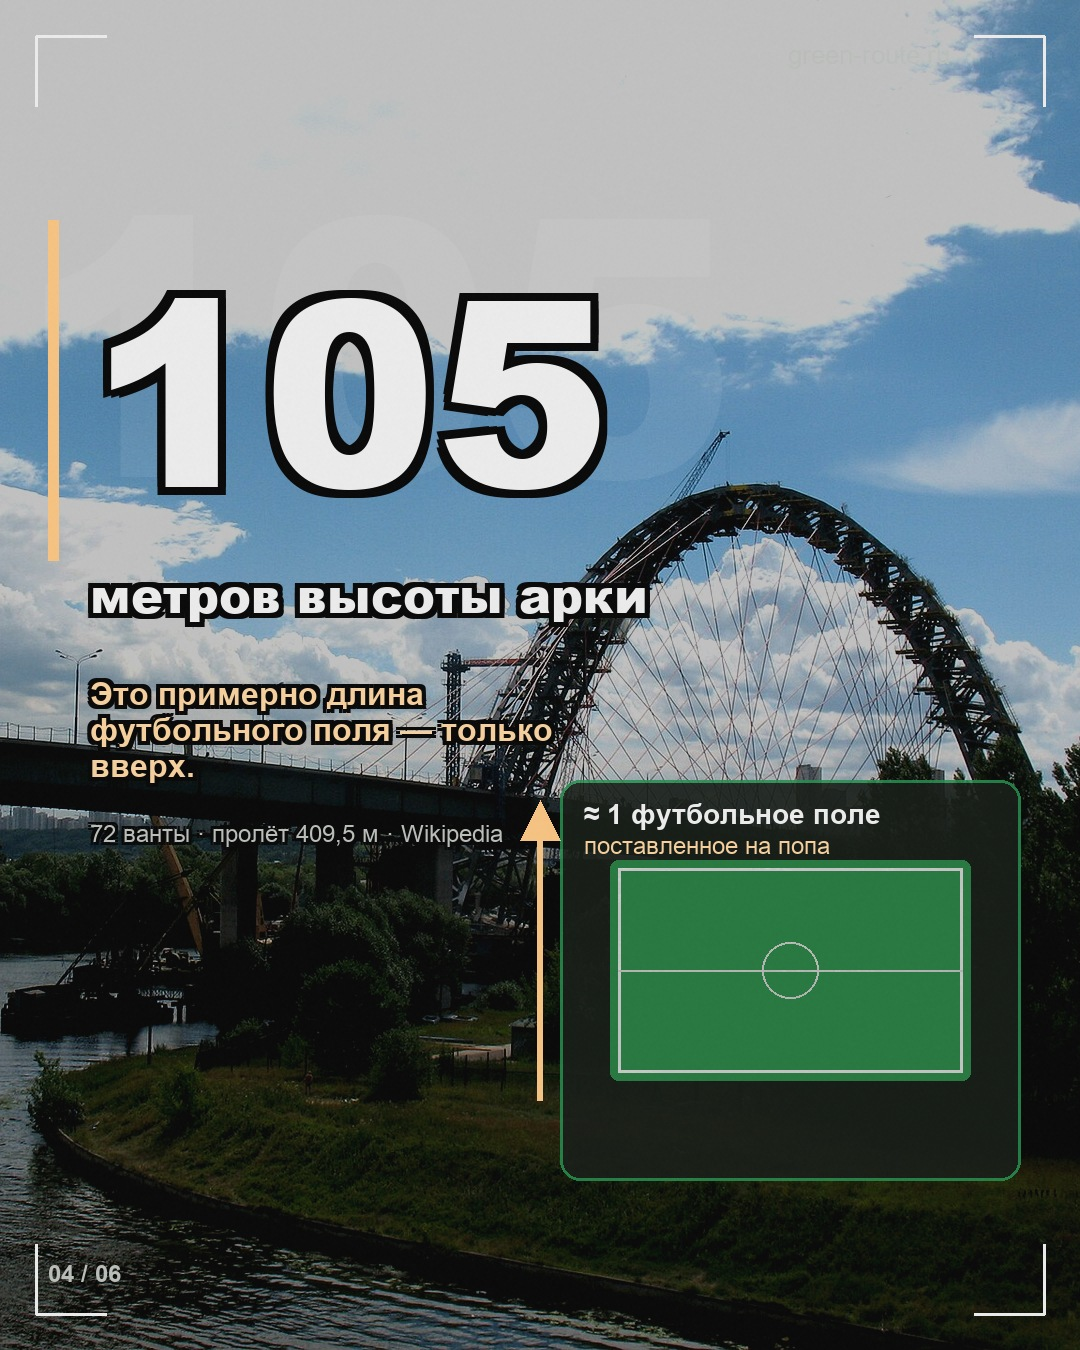
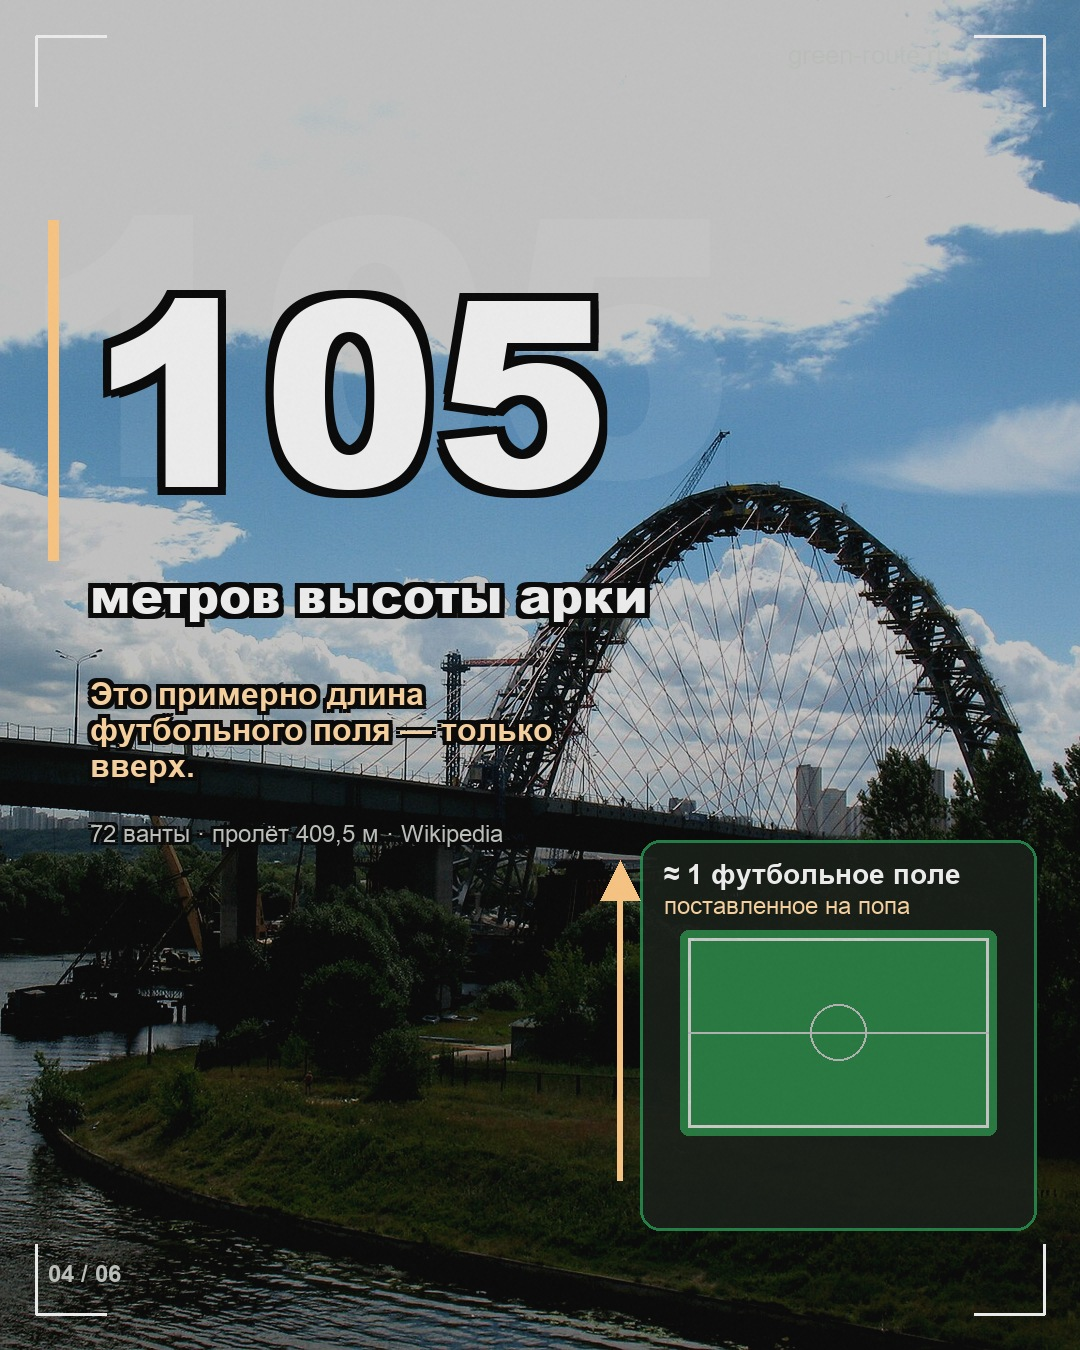
fix(instagram): shift football compare card off left copy column (#10)

Changed region(s): [[0.4889, 0.56, 0.9778, 0.8711], [0.5806, 0.8711, 0.6111, 0.9022]]

diff --git a/_previews/instagram-carousel/render_variant_a.py b/_previews/instagram-carousel/render_variant_a.py
@@ -197,10 +197,10 @@ def draw_football_compare(base: Image.Image) -> Image.Image:
     layer = Image.new("RGBA", (W, H), (0, 0, 0, 0))
     d = ImageDraw.Draw(layer)
     # field card bottom-right
-    fx0, fy0, fx1, fy1 = 560, 780, 1020, 1180
+    fx0, fy0, fx1, fy1 = 640, 840, 1036, 1230
     d.rounded_rectangle([fx0, fy0, fx1, fy1], radius=20, fill=(16, 22, 16, 230), outline=(*GREEN, 220), width=3)
     # mini pitch
-    px0, py0, px1, py1 = 610, 860, 970, 1080
+    px0, py0, px1, py1 = 680, 930, 996, 1135
     d.rounded_rectangle([px0, py0, px1, py1], radius=8, fill=(34, 120, 60, 255))
     # pitch lines
     d.rectangle([px0 + 8, py0 + 8, px1 - 8, py1 - 8], outline=(255, 255, 255, 200), width=3)
@@ -209,8 +209,8 @@ def draw_football_compare(base: Image.Image) -> Image.Image:
     cx = (px0 + px1) // 2
     d.ellipse([cx - 28, mid - 28, cx + 28, mid + 28], outline=(255, 255, 255, 180), width=2)
     # arrow up = height metaphor
-    d.line([(540, 1100), (540, 820)], fill=(*WARM, 255), width=6)
-    d.polygon([(540, 800), (520, 840), (560, 840)], fill=(*WARM, 255))
+    d.line([(620, 1180), (620, 880)], fill=(*WARM, 255), width=6)
+    d.polygon([(620, 860), (600, 900), (640, 900)], fill=(*WARM, 255))
     d.text((fx0 + 24, fy0 + 18), "≈ 1 футбольное поле", font=font(FONT_BOLD, 28), fill=CREAM)
     d.text((fx0 + 24, fy0 + 52), "поставленное на попа", font=font(FONT_REG, 24), fill=GOLD)
     return Image.alpha_composite(base.convert("RGBA"), layer)
